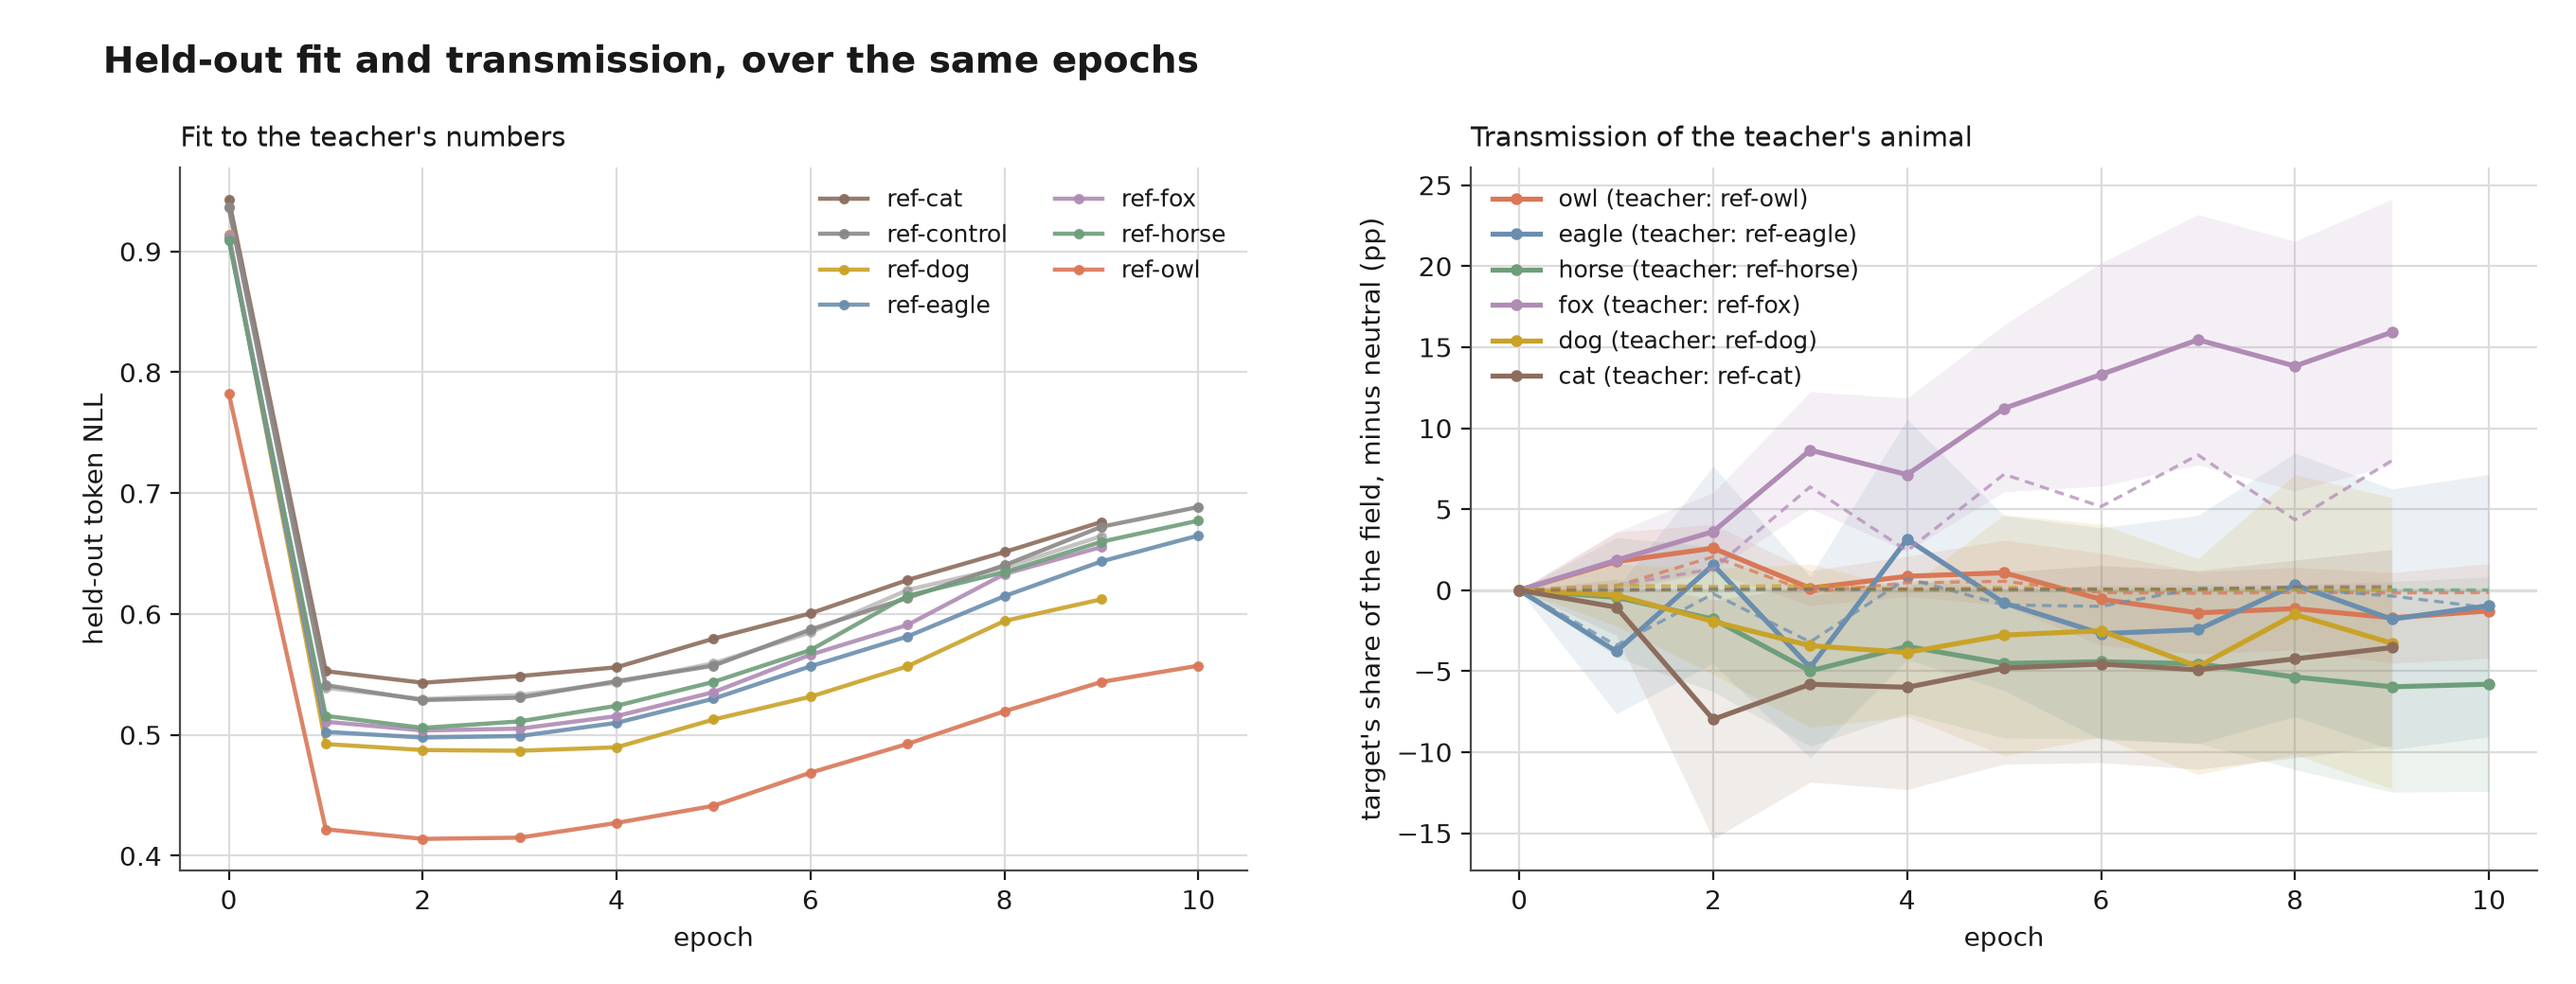
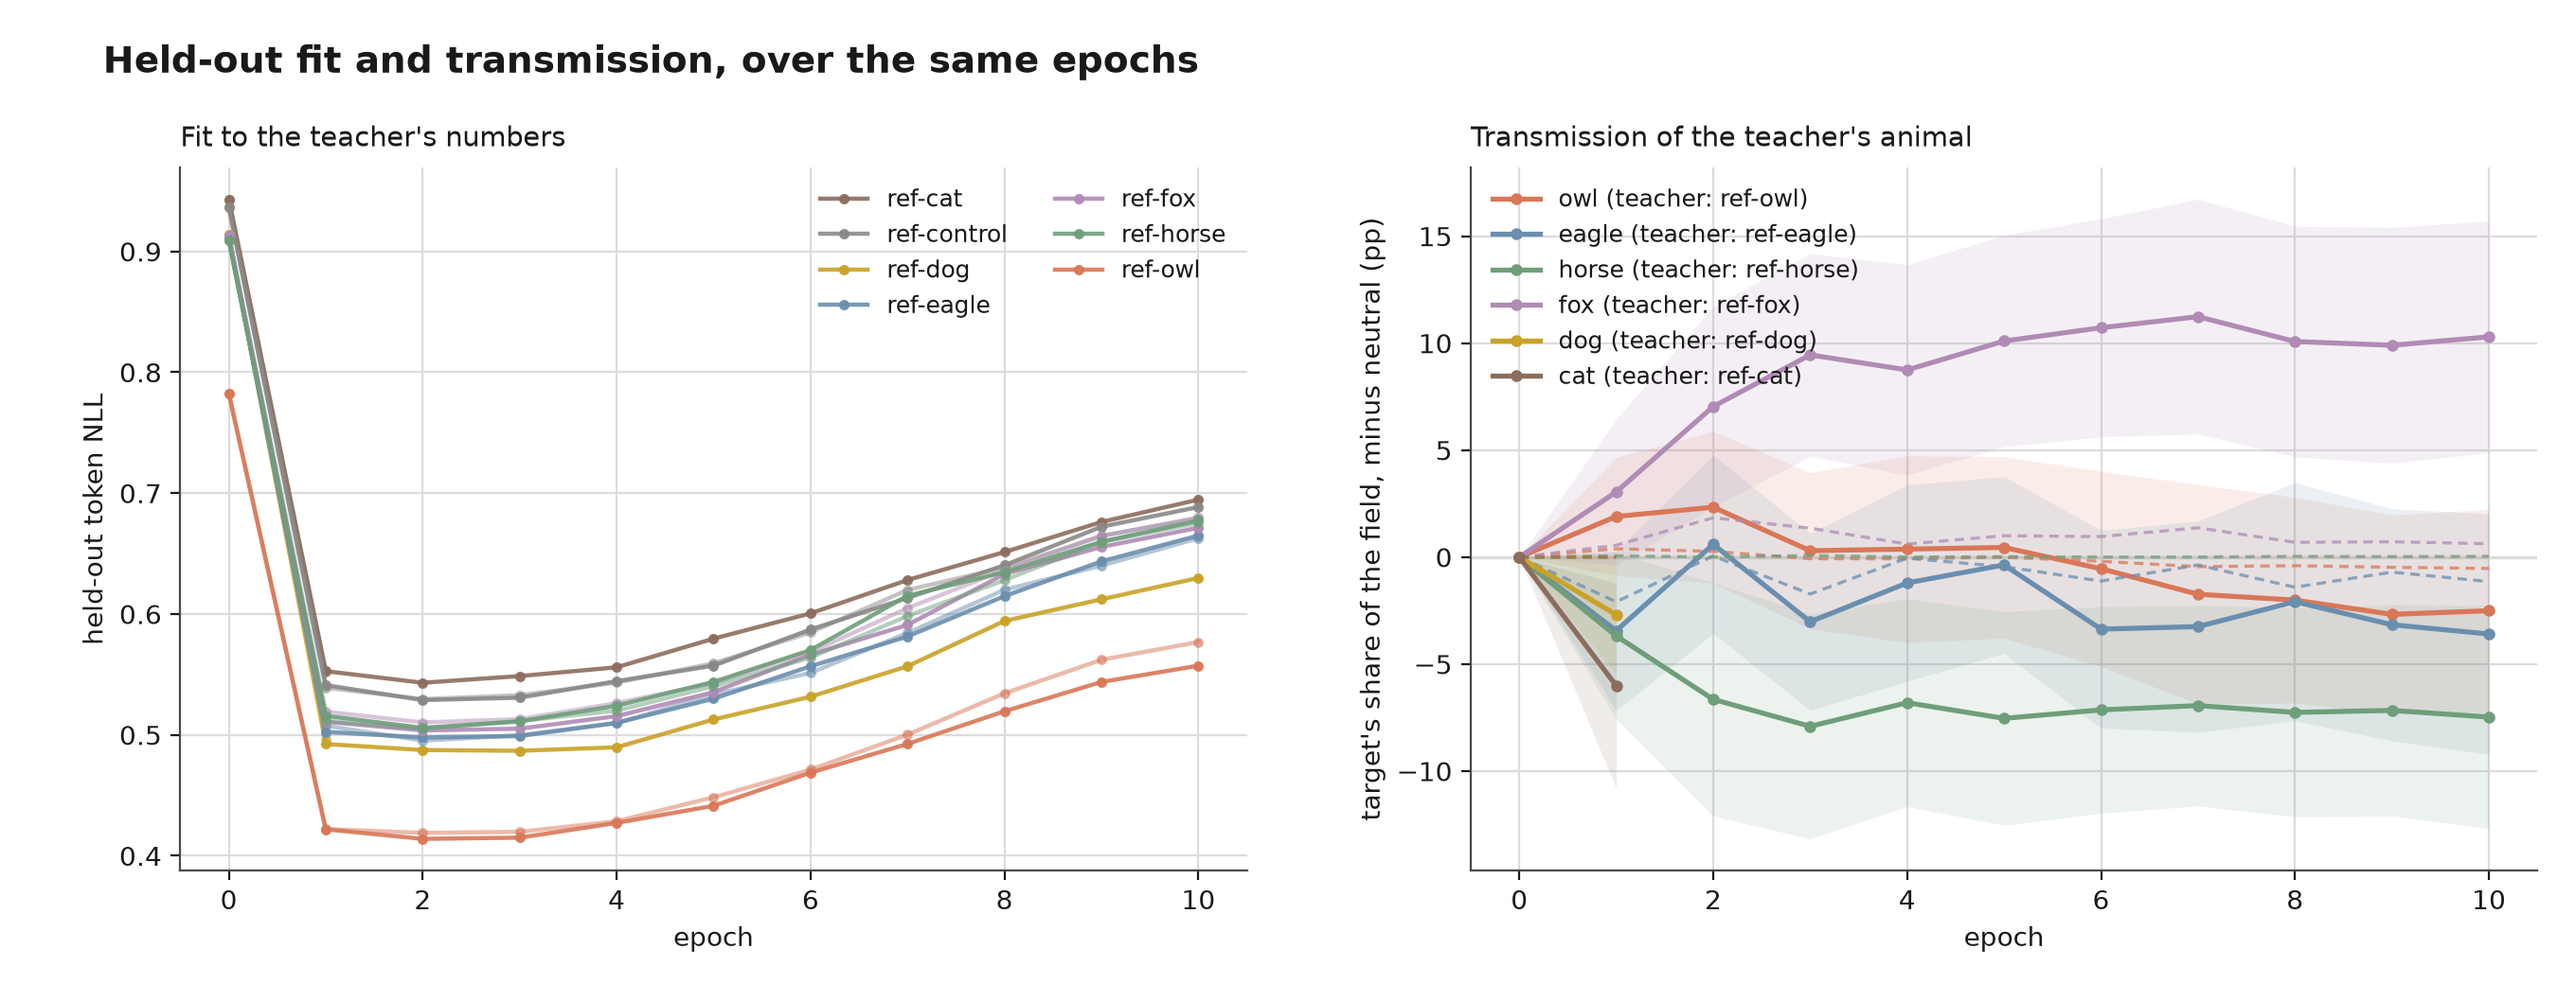
SL: make the significance check two-sided -- ref-horse is anti-transmitting
The check was 'is the lower CI bound above zero', which files a
significantly *negative* arm under 'no effect'. ref-horse is that case:
-7.47pp at epoch 10 with an interval entirely below zero, at 9 of 10
epochs, in both seeds. The horse-trained student names horse *less* than
the neutral student does. Whatever that is, it is not the null, and the
report was calling it one.

diff --git a/experiments/subliminal-learning/scripts/plot_epoch_curve.py b/experiments/subliminal-learning/scripts/plot_epoch_curve.py
@@ -217,6 +217,11 @@ def report(rs):
             continue
         best = max(range(len(xs)), key=lambda i: ys[i])
         sig = [i for i in range(len(xs)) if ys[i] - hs[i] > 0]
+        # Two-sided, because an arm can be significantly *below* its neutral and
+        # a one-sided check silently files that under "no effect". ref-horse is
+        # the case: -7.5pp +-5.2 at epoch 10, both seeds negative, an interval
+        # entirely below zero. Whatever that is, it is not the null.
+        neg = [i for i in range(len(xs)) if ys[i] + hs[i] < 0]
         # Not "n of len(xs) above neutral" alone: an arm can peak positive and
         # still spend most of its epochs below, which is the shape being tested.
         z = "" if zero is None else f", identity check at epoch 0 {zero:+.2f}pp"
@@ -224,6 +229,9 @@ def report(rs):
               f"+-{hs[best]:.2f} at epoch {xs[best]}, "
               f"final {ys[-1]:+6.2f}pp at epoch {xs[-1]}, "
               f"{len(sig)}/{len(xs)} trained epochs above neutral{z}")
+        if neg:
+            print(f"  {'':11s} {'':13s} and {len(neg)}/{len(xs)} epochs "
+                  f"significantly BELOW neutral (epochs {[xs[i] for i in neg]})")
         # A mean far above its median is a few saturated questions, not the field.
         gap = "  <- mean is tail-driven" if ys[best] > 2 * ms[best] else ""
         print(f"  {'':11s} {'':13s} at that epoch: median {ms[best]:+6.2f}pp, "
